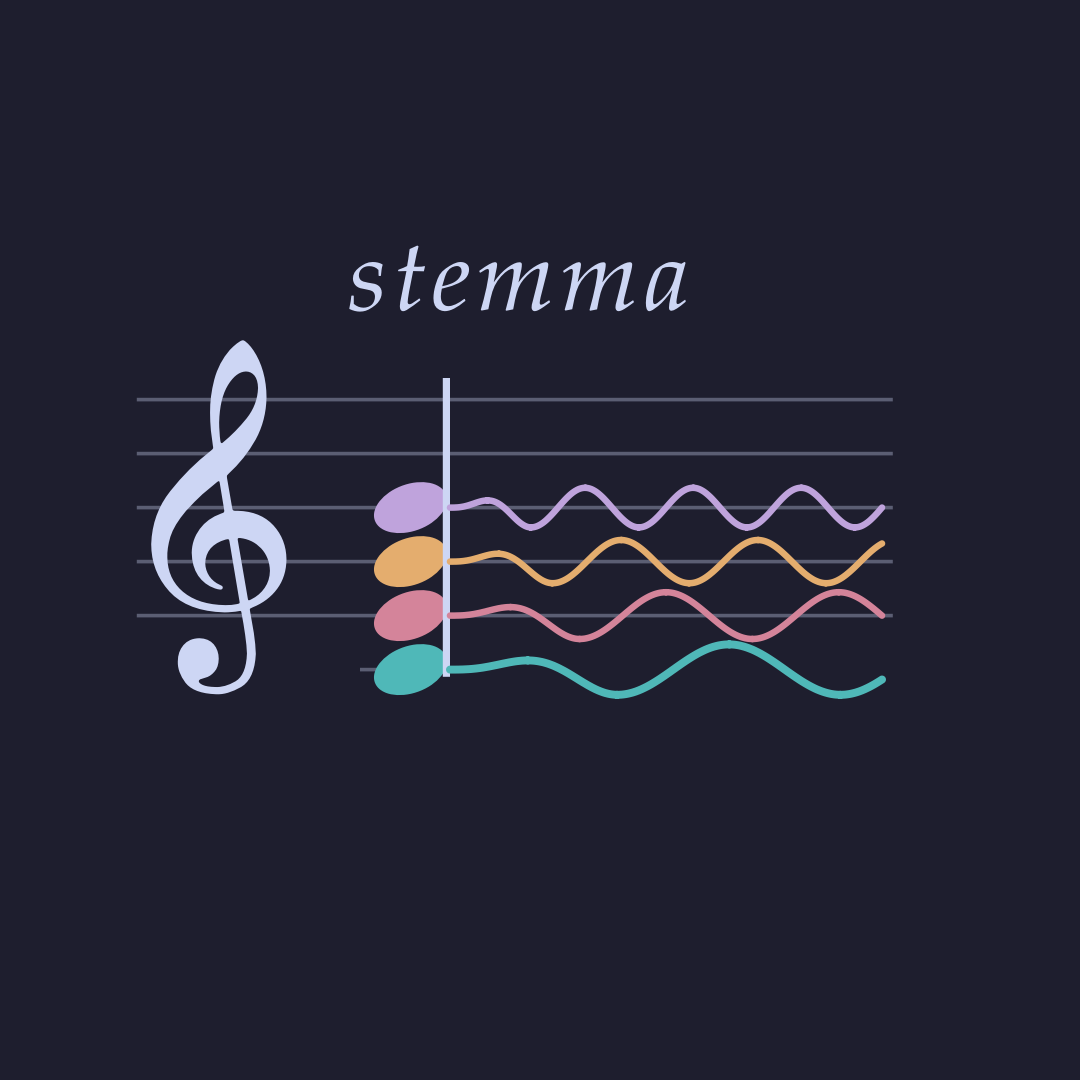
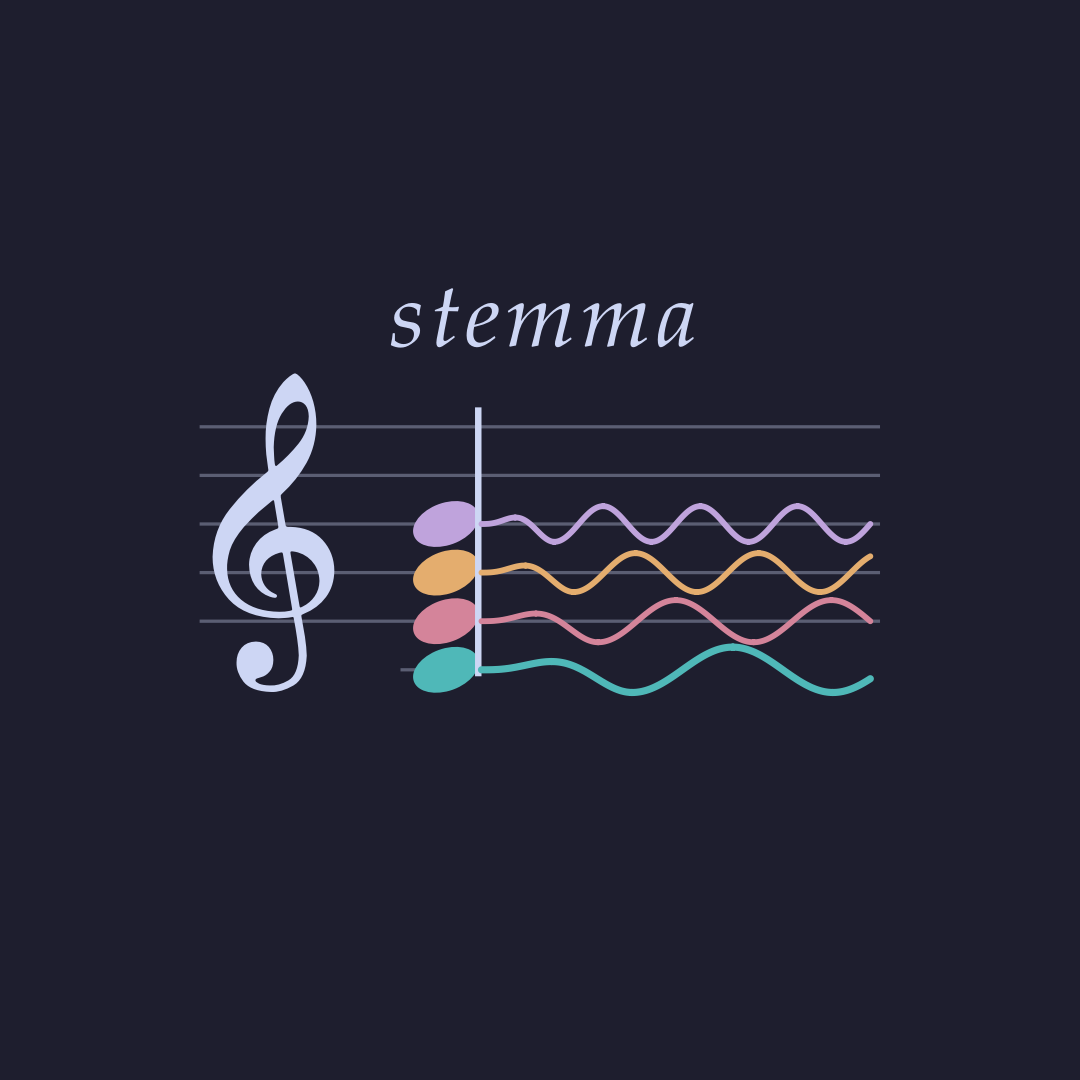
fix: centre the Store art on its ink and keep it out of the bottom third
Centre the poster and box logo on its visible pixels instead of the
padded viewBox, clamp it above the bottom third the Store may overlay,
label the poster 2:3, and drop the nonexistent generate_brand.py step.

Changed region(s): [[0.1222, 0.2139, 0.825, 0.6722], [0.7639, 0.6111, 0.825, 0.6722]]

diff --git a/scripts/generate_store_listing_assets.py b/scripts/generate_store_listing_assets.py
@@ -3,7 +3,7 @@
     python scripts/generate_store_listing_assets.py
 
 Outputs (PNG, under assets/store_listing/):
-  - poster_720x1080.png   -- 9:16 poster art
+  - poster_720x1080.png   -- 2:3 poster art
   - box_1080x1080.png     -- 1:1 box art
   - tile_300x300.png      -- 1:1 Store logo
   - logo_150x150.png      -- 1:1 Store logo
@@ -11,7 +11,8 @@ Outputs (PNG, under assets/store_listing/):
 
 The poster and box are the brand art: the main logo (the stemma wordmark
 over a clef and a chord whose notes flow out as the stem waves), centred
-on the dark theme's base colour. The arpeggio strip that used to sit under
+on the dark theme's base colour. It is centred on its visible ink, not
+its viewBox, which has uneven padding. The arpeggio strip that used to sit under
 it repeated the wordmark and left a dead band in the middle of the poster.
 
 The three Store logos are the app icon itself, so the Store shows the same
@@ -28,6 +29,8 @@ import importlib.util
 import os
 import sys
 
+import numpy as np
+
 os.environ.setdefault("QT_QPA_PLATFORM", "offscreen")
 
 from PySide6.QtCore import QRectF  # noqa: E402
@@ -40,7 +43,10 @@ OUT_DIR = os.path.join(_ROOT, "assets", "store_listing")
 BACKGROUND = QColor("#1e1e2e")  # Catppuccin Mocha base, the app's dark theme
 
 # Share of the canvas width the logo spans on the poster and box.
-_LOGO_WIDTH = {"poster": 0.84, "box": 0.80}
+_LOGO_WIDTH = {"poster": 0.84, "box": 0.72}
+# The Store may overlay text on the bottom third of the poster and box, so
+# the logo ends at least this far above it.
+SAFE_MARGIN = 24
 STORE_LOGO_SIZES = {"tile_300x300.png": 300, "logo_150x150.png": 150,
                     "logo_71x71.png": 71}
 
@@ -54,23 +60,47 @@ def _app_icons():
     return module
 
 
-def brand_art(width: int, height: int, logo_share: float) -> QImage:
-    """The main logo centred on the brand background."""
+def ink_bounds(image: QImage) -> tuple[int, int, int, int]:
+    """(left, top, right, bottom) of the pixels that differ from the
+    brand background, inclusive."""
+    argb = image.convertToFormat(QImage.Format.Format_ARGB32)
+    pixels = np.frombuffer(argb.constBits(), dtype=np.uint32).reshape(
+        argb.height(), argb.bytesPerLine() // 4
+    )[:, :argb.width()]
+    ys, xs = np.nonzero(pixels != np.uint32(BACKGROUND.rgba()))
+    return int(xs.min()), int(ys.min()), int(xs.max()), int(ys.max())
+
+
+def _paint_logo(width: int, height: int, rect: QRectF,
+                renderer: QSvgRenderer) -> QImage:
     image = QImage(width, height, QImage.Format.Format_ARGB32)
     image.fill(BACKGROUND)
+    painter = QPainter(image)
+    painter.setRenderHint(QPainter.RenderHint.Antialiasing)
+    renderer.render(painter, rect)
+    painter.end()
+    return image
+
+
+def brand_art(width: int, height: int, logo_share: float) -> QImage:
+    """The main logo centred on the brand background by its visible ink."""
     renderer = QSvgRenderer(MAIN_SVG)
     if not renderer.isValid():
         raise RuntimeError(f"Invalid SVG: {MAIN_SVG}")
     view = renderer.viewBoxF()
     logo_w = width * logo_share
     logo_h = logo_w * view.height() / view.width()
-    # Optical centre sits a little above the geometric one.
-    top = (height - logo_h) / 2 - height * 0.03
-    painter = QPainter(image)
-    painter.setRenderHint(QPainter.RenderHint.Antialiasing)
-    renderer.render(painter, QRectF((width - logo_w) / 2, top, logo_w, logo_h))
-    painter.end()
-    return image
+    rect = QRectF((width - logo_w) / 2, (height - logo_h) / 2, logo_w, logo_h)
+    left, top, right, bottom = ink_bounds(
+        _paint_logo(width, height, rect, renderer)
+    )
+    # Move the ink's centre to the canvas centre, then a little above it:
+    # the optical centre sits higher than the geometric one.
+    dx = width / 2 - (left + right + 1) / 2
+    dy = height / 2 - (top + bottom + 1) / 2 - height * 0.03
+    safe_bottom = height * 2 / 3 - SAFE_MARGIN
+    dy = min(dy, safe_bottom - bottom)
+    return _paint_logo(width, height, rect.translated(dx, dy), renderer)
 
 
 def generated_images() -> dict[str, QImage]:

diff --git a/tests/test_generate_store_listing_assets.py b/tests/test_generate_store_listing_assets.py
@@ -60,3 +60,20 @@ def test_committed_art_matches_the_generator(images):
                             abs(a.green() - b.green()),
                             abs(a.blue() - b.blue()))
         assert worst <= 8, name
+
+
+@pytest.mark.parametrize("name", ["poster_720x1080.png", "box_1080x1080.png"])
+def test_brand_art_is_centred_on_its_ink(images, name):
+    """The logo's viewBox has uneven padding; centring on it put the art
+    visibly left of centre."""
+    image = images[name]
+    left, _top, right, _bottom = art.ink_bounds(image)
+    assert abs(left - (image.width() - 1 - right)) <= 2
+
+
+@pytest.mark.parametrize("name", ["poster_720x1080.png", "box_1080x1080.png"])
+def test_brand_art_stays_out_of_the_bottom_third(images, name):
+    """The Store may lay text over the bottom third of these images."""
+    image = images[name]
+    _left, _top, _right, bottom = art.ink_bounds(image)
+    assert bottom < image.height() * 2 / 3

diff --git a/src/store_listing.py b/src/store_listing.py
@@ -262,7 +262,6 @@ Fields map to Partner Center as follows:
 | Search terms | [Search terms](#search-terms) |
 
 Assets: `assets/store_listing/` (regenerate with
-`python scripts/generate_brand.py` then
 `python scripts/generate_store_listing_assets.py`).
 Screenshots: `assets/store_listing/screenshots/` (regenerate with
 `python scripts/generate_screenshots.py`).

diff --git a/docs/store-listing.md b/docs/store-listing.md
@@ -19,7 +19,6 @@ Fields map to Partner Center as follows:
 | Search terms | [Search terms](#search-terms) |
 
 Assets: `assets/store_listing/` (regenerate with
-`python scripts/generate_brand.py` then
 `python scripts/generate_store_listing_assets.py`).
 Screenshots: `assets/store_listing/screenshots/` (regenerate with
 `python scripts/generate_screenshots.py`).
